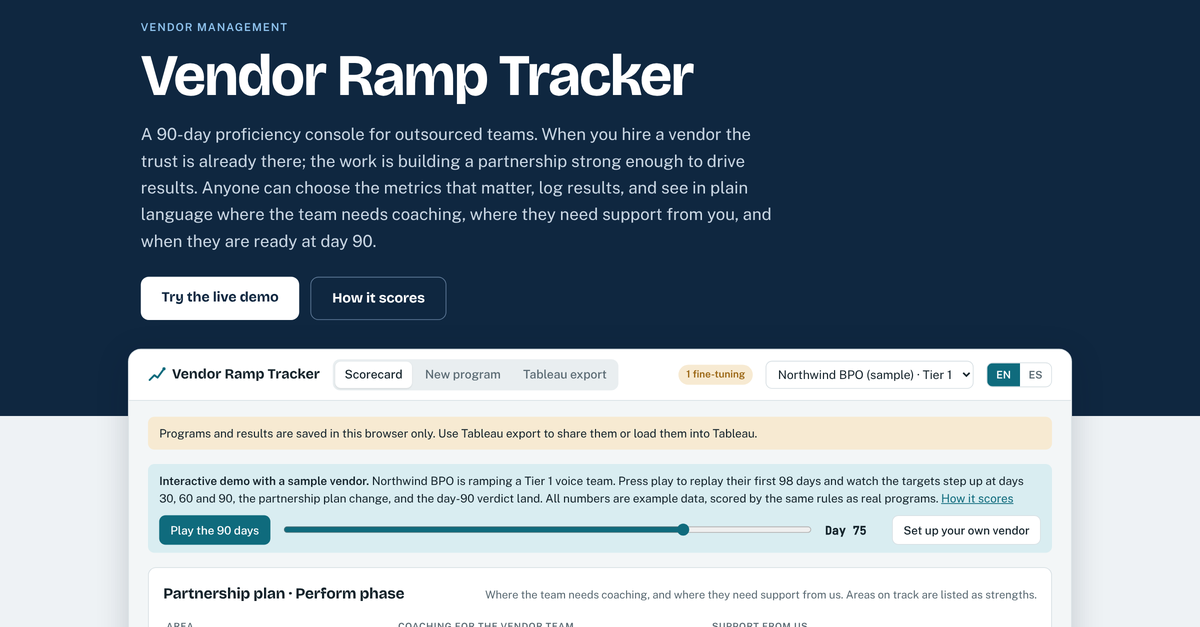
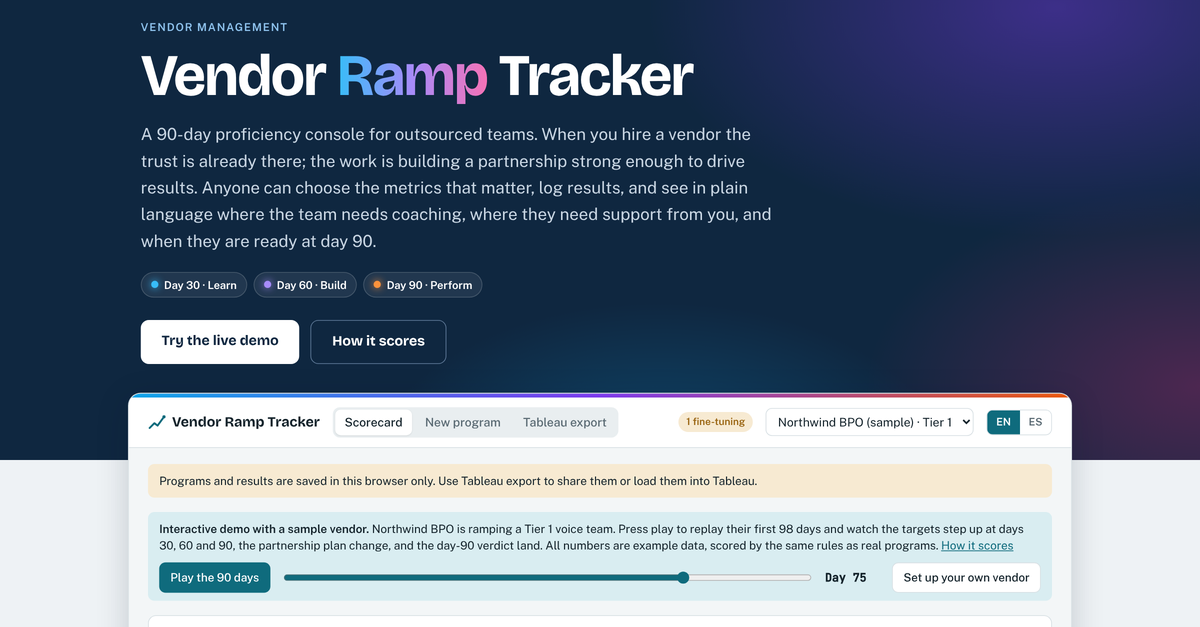
Add area and phase color system
Each focus area and each 30/60/90 phase gets its own color across the
hero, timeline, checkpoints, partnership plan, wizard and charts.
Refresh the link preview image.

Claude-Session: https://claude.ai/code/session_014zz1Hkxon9G26swz4vJieE

diff --git a/index.html b/index.html
@@ -37,23 +37,52 @@
   --f-body: "Public Sans", "Segoe UI", system-ui, sans-serif;
   --f-mono: "JetBrains Mono", ui-monospace, Menlo, Consolas, monospace;
   --r: 10px;
+  --c-quality: #7c3aed; --c-speed: #0284c7; --c-cx: #db2777; --c-productivity: #d97706; --c-compliance: #0d9488; --c-revenue: #16a34a; --c-custom: #64748b; --p1: #0ea5e9; --p2: #7c3aed; --p3: #ea580c;
 }
 @media (prefers-color-scheme: dark) { :root:not([data-theme="light"]) {
   --bg: #0d1518; --surface: #142024; --sunk: #0f1a1d; --ink: #e2eaed; --muted: #92a4ac; --line: #25353b;
   --accent: #52b6c7; --accent-soft: #163a42; --accent-ink: #061316;
   --good: #57c98a; --good-soft: #143425; --warn: #e3ac52; --warn-soft: #3a2c12; --bad: #f07a6b; --bad-soft: #42201b;
-  --band: rgba(82, 182, 199, 0.07); --page: #0a1114; --navy: #0c1f33; color-scheme: dark; } }
+  --band: rgba(82, 182, 199, 0.07); --page: #0a1114; --navy: #0c1f33; --c-quality: #a78bfa; --c-speed: #38bdf8; --c-cx: #f472b6; --c-productivity: #fbbf24; --c-compliance: #2dd4bf; --c-revenue: #4ade80; --c-custom: #94a3b8; --p1: #38bdf8; --p2: #a78bfa; --p3: #fb923c; color-scheme: dark; } }
 :root[data-theme="dark"] {
   --bg: #0d1518; --surface: #142024; --sunk: #0f1a1d; --ink: #e2eaed; --muted: #92a4ac; --line: #25353b;
   --accent: #52b6c7; --accent-soft: #163a42; --accent-ink: #061316;
   --good: #57c98a; --good-soft: #143425; --warn: #e3ac52; --warn-soft: #3a2c12; --bad: #f07a6b; --bad-soft: #42201b;
-  --band: rgba(82, 182, 199, 0.07); --page: #0a1114; --navy: #0c1f33; color-scheme: dark; }
+  --band: rgba(82, 182, 199, 0.07); --page: #0a1114; --navy: #0c1f33; --c-quality: #a78bfa; --c-speed: #38bdf8; --c-cx: #f472b6; --c-productivity: #fbbf24; --c-compliance: #2dd4bf; --c-revenue: #4ade80; --c-custom: #94a3b8; --p1: #38bdf8; --p2: #a78bfa; --p3: #fb923c; color-scheme: dark; }
 
 * { box-sizing: border-box; }
 body { background: var(--page); color: var(--ink); font-family: var(--f-body); font-size: 15px; line-height: 1.5; }
 a { color: var(--accent); }
 /* hero + console frame, after the portfolio layout */
-.hero { background: var(--navy); color: #fff; }
+.hero { color: #fff; background:
+  radial-gradient(55% 75% at 88% 8%, rgba(124, 58, 237, 0.42), transparent 62%),
+  radial-gradient(45% 65% at 100% 85%, rgba(219, 39, 119, 0.30), transparent 62%),
+  radial-gradient(40% 60% at 55% 105%, rgba(14, 165, 233, 0.30), transparent 62%),
+  var(--navy); }
+.grad { background: linear-gradient(90deg, #38bdf8, #a78bfa 50%, #f472b6); -webkit-background-clip: text; background-clip: text; color: transparent; }
+.hero-phases { display: flex; flex-wrap: wrap; gap: 8px; margin-top: 22px; }
+.hp { display: inline-flex; align-items: center; gap: 7px; padding: 5px 12px; border-radius: 99px; font-size: 0.85rem; font-weight: 600; background: rgba(255, 255, 255, 0.08); border: 1px solid rgba(255, 255, 255, 0.16); color: #fff; }
+.hp::before { content: ""; width: 9px; height: 9px; border-radius: 50%; background: var(--hc); box-shadow: 0 0 10px var(--hc); }
+.hp.h1 { --hc: #38bdf8; } .hp.h2 { --hc: #a78bfa; } .hp.h3 { --hc: #fb923c; }
+.console::before { content: ""; display: block; height: 5px; background: linear-gradient(90deg, var(--p1), var(--p2) 50%, var(--p3)); }
+/* area + phase color system */
+.a-quality { --ac: var(--c-quality); } .a-speed { --ac: var(--c-speed); } .a-cx { --ac: var(--c-cx); } .a-productivity { --ac: var(--c-productivity); }
+.a-compliance { --ac: var(--c-compliance); } .a-revenue { --ac: var(--c-revenue); } .a-custom { --ac: var(--c-custom); }
+.dot { display: inline-block; width: 9px; height: 9px; border-radius: 50%; background: var(--ac, var(--accent)); margin-right: 7px; vertical-align: 1px; flex: none; }
+.area { display: inline-flex; align-items: center; }
+.plan-t tr[class^="a-"] td:first-child { box-shadow: inset 4px 0 0 var(--ac); padding-left: 14px; }
+.choice.fchoice { border-left: 5px solid var(--ac); }
+.choice.fchoice:hover { border-color: var(--ac); }
+.choice.fchoice[aria-pressed=true] { border-color: var(--ac); background: color-mix(in srgb, var(--ac) 16%, var(--surface)); }
+.tl-seg.p1 { --pc: var(--p1); } .tl-seg.p2 { --pc: var(--p2); } .tl-seg.p3 { --pc: var(--p3); }
+.cp.p1 { --pc: var(--p1); } .cp.p2 { --pc: var(--p2); } .cp.p3 { --pc: var(--p3); }
+.cp { border-top: 4px solid var(--pc); }
+.cp .eyebrow { color: var(--pc); }
+.flow li.fl1 { --fc: var(--p1); } .flow li.fl2 { --fc: var(--p2); } .flow li.fl3 { --fc: var(--c-cx); } .flow li.fl4 { --fc: var(--p3); } .flow li.fl5 { --fc: var(--c-revenue); }
+.flow li { border-top: 4px solid var(--fc); }
+.flow li .flow-n { color: var(--fc); }
+.docs-grid > div { border-left: 4px solid var(--dc); padding-left: 14px; }
+.docs-grid > div:nth-child(1) { --dc: var(--p1); } .docs-grid > div:nth-child(2) { --dc: var(--p2); } .docs-grid > div:nth-child(3) { --dc: var(--c-cx); }
 .hero-in, .docs-in { max-width: 1180px; margin: 0 auto; padding-left: max(16px, env(safe-area-inset-left, 0px)); padding-right: max(16px, env(safe-area-inset-right, 0px)); }
 .hero-in { padding-block: 64px 120px; }
 .hero-eyebrow { color: #8fc3ee; font-weight: 600; letter-spacing: 0.1em; text-transform: uppercase; font-size: 0.85rem; }
@@ -157,8 +186,8 @@ label.f span { color: var(--muted); }
 .timeline { margin-top: 18px; }
 .tl-track { position: relative; display: grid; grid-template-columns: repeat(3, 1fr); gap: 3px; height: 30px; }
 .tl-seg { background: var(--sunk); border-radius: 5px; display: flex; align-items: center; padding: 0 8px; font-size: 0.75rem; color: var(--muted); font-weight: 600; overflow: hidden; white-space: nowrap; }
-.tl-seg.done { background: var(--accent-soft); color: var(--ink); }
-.tl-seg.now { background: var(--accent); color: var(--accent-ink); }
+.tl-seg.done { background: color-mix(in srgb, var(--pc, var(--accent)) 22%, var(--surface)); color: var(--ink); }
+.tl-seg.now { background: var(--pc, var(--accent)); color: #fff; }
 .tl-marker { position: absolute; top: -5px; bottom: -5px; width: 3px; background: var(--ink); border-radius: 2px; }
 .tl-axis { display: grid; grid-template-columns: repeat(3, 1fr); font-size: 0.72rem; color: var(--muted); margin-top: 4px; font-family: var(--f-mono); }
 .tl-axis span { text-align: right; }
@@ -205,8 +234,8 @@ tr.click:hover td { background: var(--band); }
 .steps { display: flex; gap: 6px; flex-wrap: wrap; counter-reset: s; list-style: none; padding: 0; margin: 0; }
 .steps li { counter-increment: s; font-size: 0.8rem; color: var(--muted); padding: 4px 10px 4px 6px; border-radius: 99px; background: var(--sunk); display: flex; gap: 6px; align-items: center; }
 .steps li::before { content: counter(s); width: 18px; height: 18px; border-radius: 50%; background: var(--surface); display: grid; place-items: center; font-size: 0.7rem; font-weight: 700; }
-.steps li.on { background: var(--accent); color: var(--accent-ink); }
-.steps li.on::before { color: var(--accent); }
+.steps li.on { background: linear-gradient(90deg, var(--p1), var(--p2)); color: #fff; }
+.steps li.on::before { color: var(--p2); }
 .steps li.done { color: var(--ink); }
 .q { font-family: var(--f-display); font-size: 1.45rem; font-weight: 700; }
 .choices { display: grid; grid-template-columns: repeat(auto-fill, minmax(220px, 1fr)); gap: 10px; }
@@ -251,8 +280,9 @@ code { font-family: var(--f-mono); font-size: 0.86em; background: var(--sunk); p
 <header class="hero">
   <div class="hero-in">
     <p class="hero-eyebrow" data-t="Vendor management">Vendor management</p>
-    <h1 class="hero-title">Vendor Ramp Tracker</h1>
+    <h1 class="hero-title">Vendor <span class="grad">Ramp</span> Tracker</h1>
     <p class="hero-lede" data-t="hero.lede">A 90-day proficiency console for outsourced teams. Anyone can answer a few questions to choose the metrics that matter for their vendor. Then they log results and see, in plain language, whether the team is on pace, needs coaching, or has reached proficiency at day 90.</p>
+    <div class="hero-phases"><span class="hp h1" data-t="Day 30 · Learn">Day 30 · Learn</span><span class="hp h2" data-t="Day 60 · Build">Day 60 · Build</span><span class="hp h3" data-t="Day 90 · Perform">Day 90 · Perform</span></div>
     <div class="hero-cta">
       <a class="hbtn solid" href="#demo" data-action="playDemo" data-t="Try the live demo">Try the live demo</a>
       <a class="hbtn line" href="#how" data-t="How it scores">How it scores</a>
@@ -449,6 +479,7 @@ const ES = {
   'Weighted score': 'Puntaje ponderado', 'doc.ws': "Σ(peso × cumplimiento) ÷ Σ pesos. Cada métrica tiene un tope de 120%, para que una métrica fuerte no esconda una débil.",
   'Partnership plan': 'Plan de colaboración', 'doc.ca': 'Las métricas se agrupan por área. Cada área que no está en meta muestra coaching para el equipo del proveedor y, cuando hace falta, el apoyo que nos toca dar: herramientas, accesos, guías o pronósticos. Las áreas en meta se reconocen como fortalezas.',
   'About this project': 'Sobre este proyecto',
+  'Day 30 · Learn': 'Día 30 · Aprender', 'Day 60 · Build': 'Día 60 · Desarrollar', 'Day 90 · Perform': 'Día 90 · Desempeñar',
   'Privacy and data': 'Privacidad y datos', 'Privacy': 'Privacidad',
   'priv.local.intro': 'Todo lo que escribes se queda en tu propio navegador. Este sitio no tiene base de datos ni cuentas, así que nadie más, ni siquiera la autora, puede ver tus programas o resultados.',
   'priv.db.intro': 'Esta versión usa un espacio de equipo compartido. Todas las personas a las que el propietario da acceso ven los mismos programas y resultados.',
@@ -613,6 +644,8 @@ const attain = (m, v, pct) => {
 const statusOf = (a) => a == null ? 'none' : a >= 1 ? 'good' : a >= 0.9 ? 'warn' : 'bad';
 const pct = (a) => a == null ? '—' : Math.round(a * 100) + '%';
 const mName = (m) => T(m.name);
+const areaKey = (m) => FOCUS[m.focus] ? m.focus : 'custom';
+const ROLE_AREA = { support: 'cx', sales: 'revenue', ops: 'productivity', collections: 'compliance', other: 'custom' };
 const dv = (p, k) => p.demo ? T(p[k]) : p[k];
 function fmt(v, unit) {
   if (v == null || isNaN(v)) return '—';
@@ -763,7 +796,7 @@ function renderDocs() {
   $('#docs').innerHTML = `
     <p class="eyebrow">${T('How it scores')}</p>
     <h2 class="docs-h">${T('From a few questions to a day-90 verdict')}</h2>
-    <ol class="flow">${steps.map(([h, b], i) => `<li><small class="flow-n">${T('Step')} ${i + 1}</small><b>${T(h)}</b><span>${T(b)}</span></li>`).join('')}</ol>
+    <ol class="flow">${steps.map(([h, b], i) => `<li class="fl${i + 1}"><small class="flow-n">${T('Step')} ${i + 1}</small><b>${T(h)}</b><span>${T(b)}</span></li>`).join('')}</ol>
     <div class="docs-grid">
       <div><h3>${T('Attainment')}</h3><p>${T('doc.att')}</p></div>
       <div><h3>${T('Weighted score')}</h3><p>${T('doc.ws')}</p></div>
@@ -836,10 +869,10 @@ function plan(p, A) {
   return `<section class="card plan">
     <header><h2>${T('Partnership plan')} · ${T('{name} phase', { name: T(PHASES[A.curPhase].name) })}</h2><span class="muted" style="font-size:.85rem">${T('Where the team needs coaching, and where they need support from us. Areas on track are listed as strengths.')}</span></header>
     ${focusRows.length ? `<div class="tbl-wrap"><table class="plan-t"><thead><tr><th>${T('Area')}</th><th>${T('Coaching for the vendor team')}</th><th>${T('Support from us')}</th></tr></thead><tbody>
-      ${focusRows.map((a) => `<tr><td><div class="row" style="gap:8px;align-items:center"><b>${areaName(a.k)}</b><span class="chip ${a.level}">${T(STATUS[a.level])}</span></div><div class="pms">${mlist(a)}</div></td>
+      ${focusRows.map((a) => `<tr class="a-${a.k}"><td><div class="row" style="gap:8px;align-items:center"><b class="area"><i class="dot"></i>${areaName(a.k)}</b><span class="chip ${a.level}">${T(STATUS[a.level])}</span></div><div class="pms">${mlist(a)}</div></td>
         <td>${T('coach.' + a.k)}</td><td>${a.level === 'bad' ? T('help.' + a.k) : '<span class="muted">—</span>'}</td></tr>`).join('')}
     </tbody></table></div>` : `<p>${T('Every area is on track. Recognize the team and keep the regular review cadence.')}</p>`}
-    ${strengths.length && focusRows.length ? `<p class="strengths"><b>${T('Strengths to recognize')}:</b> ${strengths.map((a) => `${areaName(a.k)} (${a.rows.map(({ r }) => esc(mName(r.m)) + ' ' + pct(r.cur.att)).join(', ')})`).join(' · ')}</p>` : ''}
+    ${strengths.length && focusRows.length ? `<p class="strengths"><b>${T('Strengths to recognize')}:</b> ${strengths.map((a) => `<span class="a-${a.k}"><i class="dot"></i></span>${areaName(a.k)} (${a.rows.map(({ r }) => esc(mName(r.m)) + ' ' + pct(r.cur.att)).join(', ')})`).join(' · ')}</p>` : ''}
   </section>`;
 }
 
@@ -866,7 +899,7 @@ function renderProgram(p) {
   const scoreRows = A.metrics.map((r) => {
     const st = statusOf(r.cur.att);
     return `<tr class="click ${r.m.id === ui.metricId ? 'sel' : ''}" data-action="metric" data-id="${esc(r.m.id)}">
-      <td><div class="mname">${esc(mName(r.m))}</div><div class="dir">${dirTxt(r.m)} · ${T('weight {w}', { w: r.m.weight })}</div></td>
+      <td><div class="mname"><i class="dot a-${areaKey(r.m)}"></i>${esc(mName(r.m))}</div><div class="dir">${dirTxt(r.m)} · ${T('weight {w}', { w: r.m.weight })}</div></td>
       <td class="n">${fmt(r.m.goal, r.m.unit)}</td>
       <td class="n">${fmt(r.cur.target, r.m.unit)}</td>
       <td class="n">${fmt(r.cur.avg, r.m.unit)}</td>
@@ -876,7 +909,7 @@ function renderProgram(p) {
       <td>${spark(r, r.m)}</td></tr>`;
   }).join('');
 
-  const heatRows = A.metrics.map((r) => `<tr><td class="mname">${esc(mName(r.m))}</td>${r.phases.slice(0, 3).map((x, i) => {
+  const heatRows = A.metrics.map((r) => `<tr><td class="mname"><i class="dot a-${areaKey(r.m)}"></i>${esc(mName(r.m))}</td>${r.phases.slice(0, 3).map((x, i) => {
     const st = statusOf(x.att);
     return `<td class="cell ${st}">${x.att == null ? (i > ph ? T('upcoming') : T('no data')) : pct(x.att)}<br><span style="font-size:.72rem">${fmt(x.avg, r.m.unit)} vs ${fmt(x.target, r.m.unit)}</span></td>`;
   }).join('')}</tr>`).join('');
@@ -885,7 +918,7 @@ function renderProgram(p) {
     const s = A.scores[i];
     const st = s.score == null ? 'none' : statusOf(s.score);
     const label = s.score == null ? (i > ph || d < 1 ? T('Upcoming') : T('No data')) : pct(s.score);
-    return `<div class="cp"><span class="eyebrow">${T('Day {d}', { d: (i + 1) * 30 })}</span><span class="v">${label}</span><span class="chip ${st}" style="justify-self:start">${s.score == null ? '—' : i === ph && d <= 90 ? T('In progress') : T(STATUS[st])}</span></div>`;
+    return `<div class="cp p${i + 1}"><span class="eyebrow">${T('Day {d}', { d: (i + 1) * 30 })}</span><span class="v">${label}</span><span class="chip ${st}" style="justify-self:start">${s.score == null ? '—' : i === ph && d <= 90 ? T('In progress') : T(STATUS[st])}</span></div>`;
   }).join('');
 
   const recent = entriesFor(p).slice().sort((a, b) => b.date.localeCompare(a.date)).slice(0, 25);
@@ -907,7 +940,7 @@ function renderProgram(p) {
         <div class="meta">${p.team ? `<span>${esc(dv(p, 'team'))}</span>` : ''}${p.owner ? `<span>${T('Owner: {o}', { o: esc(dv(p, 'owner')) })}</span>` : ''}<span>${T('{n} metrics', { n: p.metrics.length })}</span><span>${T('{r} ramp', { r: esc(T(RAMPS[p.rampKey]?.label || 'Custom')) })}</span></div>
         <div class="timeline">
           <div class="row" style="justify-content:space-between;margin-bottom:8px"><b class="num">${T('Day {d}', { d: Math.max(d, 0) })}${d <= 90 ? T(' of 90') : ''}</b><span class="muted">${phaseName}</span></div>
-          <div class="tl-track">${PHASES.slice(0, 3).map((x, i) => `<div class="tl-seg ${i < ph || d > 90 ? 'done' : i === ph && d >= 1 ? 'now' : ''}">${T(x.name)} · ${Math.round(p.ramp[i] * 100)}%</div>`).join('')}
+          <div class="tl-track">${PHASES.slice(0, 3).map((x, i) => `<div class="tl-seg p${i + 1} ${i < ph || d > 90 ? 'done' : i === ph && d >= 1 ? 'now' : ''}">${T(x.name)} · ${Math.round(p.ramp[i] * 100)}%</div>`).join('')}
             <div class="tl-marker" style="left:calc(${markerLeft}% - 1.5px)" aria-hidden="true"></div></div>
           <div class="tl-axis"><span>30</span><span>60</span><span>90</span></div>
         </div>
@@ -929,10 +962,10 @@ function renderProgram(p) {
   </section>
 
   <div class="grid2">
-    <section class="card chart">
+    <section class="card chart a-${sel ? areaKey(sel.m) : 'custom'}">
       <header><h2>${esc(sel ? mName(sel.m) : T('Trend'))}</h2><span class="muted" style="font-size:.85rem">${sel ? dirTxt(sel.m) : ''}</span></header>
       ${sel ? chart(p, sel, d) : ''}
-      <div class="legend"><span><i style="border-color:var(--accent)"></i>${T('Actual')}</span><span><i style="border-color:var(--ink)"></i>${T('Ramp target')}</span><span><i style="border-color:var(--muted);border-top-style:dashed"></i>${T('Final goal')}</span></div>
+      <div class="legend"><span><i style="border-color:var(--ac)"></i>${T('Actual')}</span><span><i style="border-color:var(--ink)"></i>${T('Ramp target')}</span><span><i style="border-color:var(--muted);border-top-style:dashed"></i>${T('Final goal')}</span></div>
     </section>
     <section class="card">
       <header><h2>${T('30 / 60 / 90 checkpoint review')}</h2><span class="muted" style="font-size:.85rem">${T("Phase average vs. that phase's target")}</span></header>
@@ -995,10 +1028,10 @@ function chart(p, r, today) {
   g += `<path d="${path}" fill="none" stroke="var(--ink)" stroke-width="1.8"/>`;
   if (today >= 1 && today <= maxDay) g += `<line x1="${x(today)}" x2="${x(today)}" y1="${T0}" y2="${H - B}" stroke="var(--accent)" stroke-width="1" stroke-dasharray="2 3"/><text x="${x(today) + 4}" y="${T0 + 11}" font-size="11" fill="var(--accent)">${T('today')}</text>`;
   const pts = r.entries.filter((e) => e.day >= 0 && e.day <= maxDay).map((e) => [x(e.day), y(+e.value), e]);
-  if (pts.length > 1) g += `<polyline points="${pts.map((q) => q[0] + ',' + q[1]).join(' ')}" fill="none" stroke="var(--accent)" stroke-width="2" stroke-linejoin="round"/>`;
+  if (pts.length > 1) g += `<polyline points="${pts.map((q) => q[0] + ',' + q[1]).join(' ')}" fill="none" stroke="var(--ac)" stroke-width="2.2" stroke-linejoin="round"/>`;
   pts.forEach(([px, py, e], i) => {
     const a = attain(m, +e.value, pctFor(p, phaseIdx(e.day)));
-    g += `<circle cx="${px}" cy="${py}" r="${i === pts.length - 1 ? 4.5 : 3}" fill="${i === pts.length - 1 ? 'var(--accent)' : 'var(--surface)'}" stroke="var(--accent)" stroke-width="1.6"><title>${esc(e.date)} · ${T('day')} ${e.day} · ${esc(fmt(+e.value, m.unit))} (${pct(a)} ${T('of target)')}</title></circle>`;
+    g += `<circle cx="${px}" cy="${py}" r="${i === pts.length - 1 ? 4.5 : 3}" fill="${i === pts.length - 1 ? 'var(--ac)' : 'var(--surface)'}" stroke="var(--ac)" stroke-width="1.6"><title>${esc(e.date)} · ${T('day')} ${e.day} · ${esc(fmt(+e.value, m.unit))} (${pct(a)} ${T('of target)')}</title></circle>`;
   });
   if (!pts.length) g += `<text x="${(L + W - R) / 2}" y="${H / 2}" text-anchor="middle" font-size="13" fill="var(--muted)">${T('No results logged for this metric yet')}</text>`;
   return `<svg viewBox="0 0 ${W} ${H}" role="img" aria-label="${esc(mName(m))}">${g}</svg>`;
@@ -1031,11 +1064,11 @@ function renderWizard() {
   else if (w.step === 1) body = `
     <p class="q">${T('What kind of work is this vendor doing?')}</p>
     <p class="muted">${T("This picks the metric suggestions you'll see next. You can always add your own.")}</p>
-    <div class="choices">${Object.entries(ROLES).map(([k, r]) => `<button type="button" class="choice" data-action="wzRole" data-k="${k}" aria-pressed="${d.role === k}"><b>${T(r.label)}</b><small>${T(r.hint)}</small></button>`).join('')}</div>`;
+    <div class="choices">${Object.entries(ROLES).map(([k, r]) => `<button type="button" class="choice fchoice a-${ROLE_AREA[k]}" data-action="wzRole" data-k="${k}" aria-pressed="${d.role === k}"><b>${T(r.label)}</b><small>${T(r.hint)}</small></button>`).join('')}</div>`;
   else if (w.step === 2) body = `
     <p class="q">${T('What matters most in the first 90 days?')}</p>
     <p class="muted">${T('Choose one or more. Metrics in these areas get recommended and weighted higher in the score.')}</p>
-    <div class="choices">${Object.entries(FOCUS).map(([k, l]) => `<button type="button" class="choice" data-action="wzFocus" data-k="${k}" aria-pressed="${d.focus.includes(k)}"><b>${T(l)}</b><small>${T(FOCUS_HINT[k])}</small></button>`).join('')}</div>`;
+    <div class="choices">${Object.entries(FOCUS).map(([k, l]) => `<button type="button" class="choice fchoice a-${k}" data-action="wzFocus" data-k="${k}" aria-pressed="${d.focus.includes(k)}"><b>${T(l)}</b><small>${T(FOCUS_HINT[k])}</small></button>`).join('')}</div>`;
   else if (w.step === 3) {
     const sug = suggestions(w);
     const ids = new Set(d.metrics.map((m) => m.id));
@@ -1044,9 +1077,9 @@ function renderWizard() {
     <p class="q">${T('Which metrics do you want to measure?')}</p>
     <p class="muted">${T('Pick 3 to 7 for a focused review. Recommended ones match your priorities.')}</p>
     <div class="mlist">${sug.map((s) => `<label class="mopt"><input type="checkbox" data-action="wzPick" data-id="${s.id}" ${ids.has(s.id) ? 'checked' : ''}>
-      <span><b>${esc(mName(s))}</b> <span class="muted" style="font-size:.85rem">· ${esc(T(FOCUS[s.focus]))} · ${dirLow(s)} · ${T('typical goal {g}', { g: esc(fmt(s.goal, s.unit)) })}</span></span>
+      <span><i class="dot a-${s.focus}"></i><b>${esc(mName(s))}</b> <span class="muted" style="font-size:.85rem">· ${esc(T(FOCUS[s.focus]))} · ${dirLow(s)} · ${T('typical goal {g}', { g: esc(fmt(s.goal, s.unit)) })}</span></span>
       ${d.focus.includes(s.focus) ? `<span class="tag">${T('Recommended')}</span>` : '<span></span>'}</label>`).join('')}
-      ${custom.map((m) => `<label class="mopt"><input type="checkbox" data-action="wzPick" data-id="${esc(m.id)}" checked><span><b>${esc(mName(m))}</b> <span class="muted" style="font-size:.85rem">· ${T('your metric')} · ${dirLow(m)}</span></span><span class="tag">${T('Custom')}</span></label>`).join('')}
+      ${custom.map((m) => `<label class="mopt"><input type="checkbox" data-action="wzPick" data-id="${esc(m.id)}" checked><span><i class="dot a-custom"></i><b>${esc(mName(m))}</b> <span class="muted" style="font-size:.85rem">· ${T('your metric')} · ${dirLow(m)}</span></span><span class="tag">${T('Custom')}</span></label>`).join('')}
     </div>
     <div class="card" style="background:var(--sunk);border:0">
       <h3 style="margin-bottom:10px">${T('Add your own metric')}</h3>
@@ -1065,7 +1098,7 @@ function renderWizard() {
     <div>
       <div class="goalrow head"><span>${T('Metric')}</span><span>${T('Better when')}</span><span>${T('Goal')}</span><span>${T('Unit')}</span><span>${T('Weight')}</span><span>${T('Day 30 / 60 / 90 targets')}</span></div>
       ${d.metrics.map((m, i) => `<div class="goalrow">
-        <b class="gname">${esc(mName(m))}</b>
+        <b class="gname"><i class="dot a-${areaKey(m)}"></i>${esc(mName(m))}</b>
         <select id="g_dir_${i}" data-g="${i}" data-k="dir" aria-label="${T('Better when')}"><option value="up" ${m.dir === 'up' ? 'selected' : ''}>${T('Higher')}</option><option value="down" ${m.dir === 'down' ? 'selected' : ''}>${T('Lower')}</option></select>
         <input type="number" step="any" id="g_goal_${i}" data-g="${i}" data-k="goal" value="${esc(m.goal)}" aria-label="${T('Goal')}">
         <span class="muted">${esc(unitLabel(m.unit))}</span>
